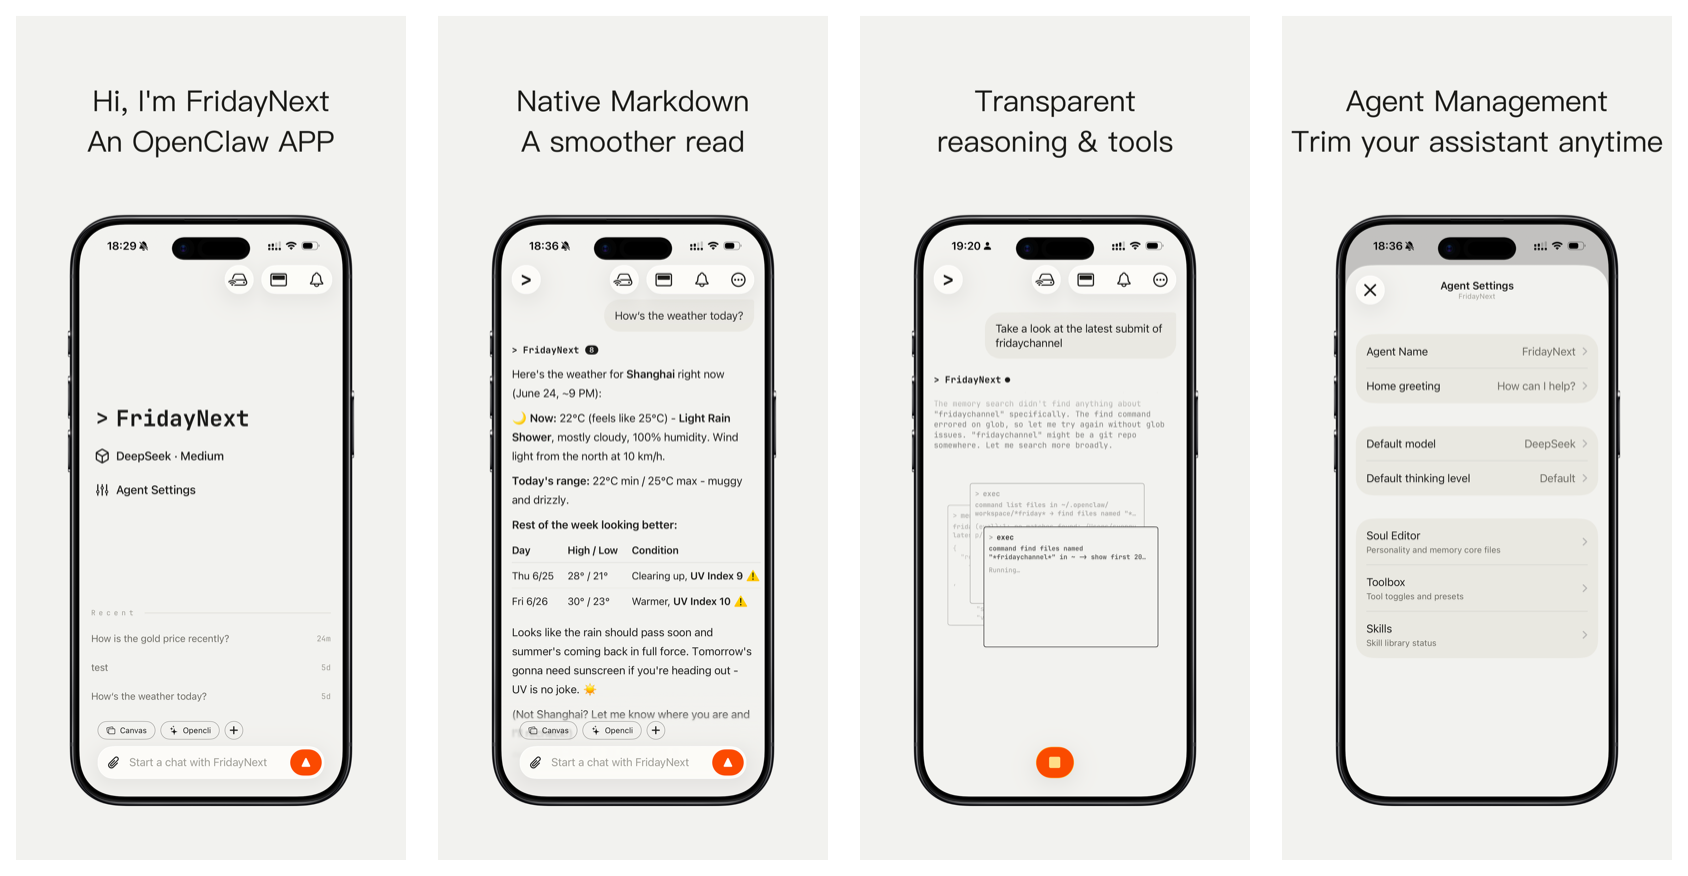
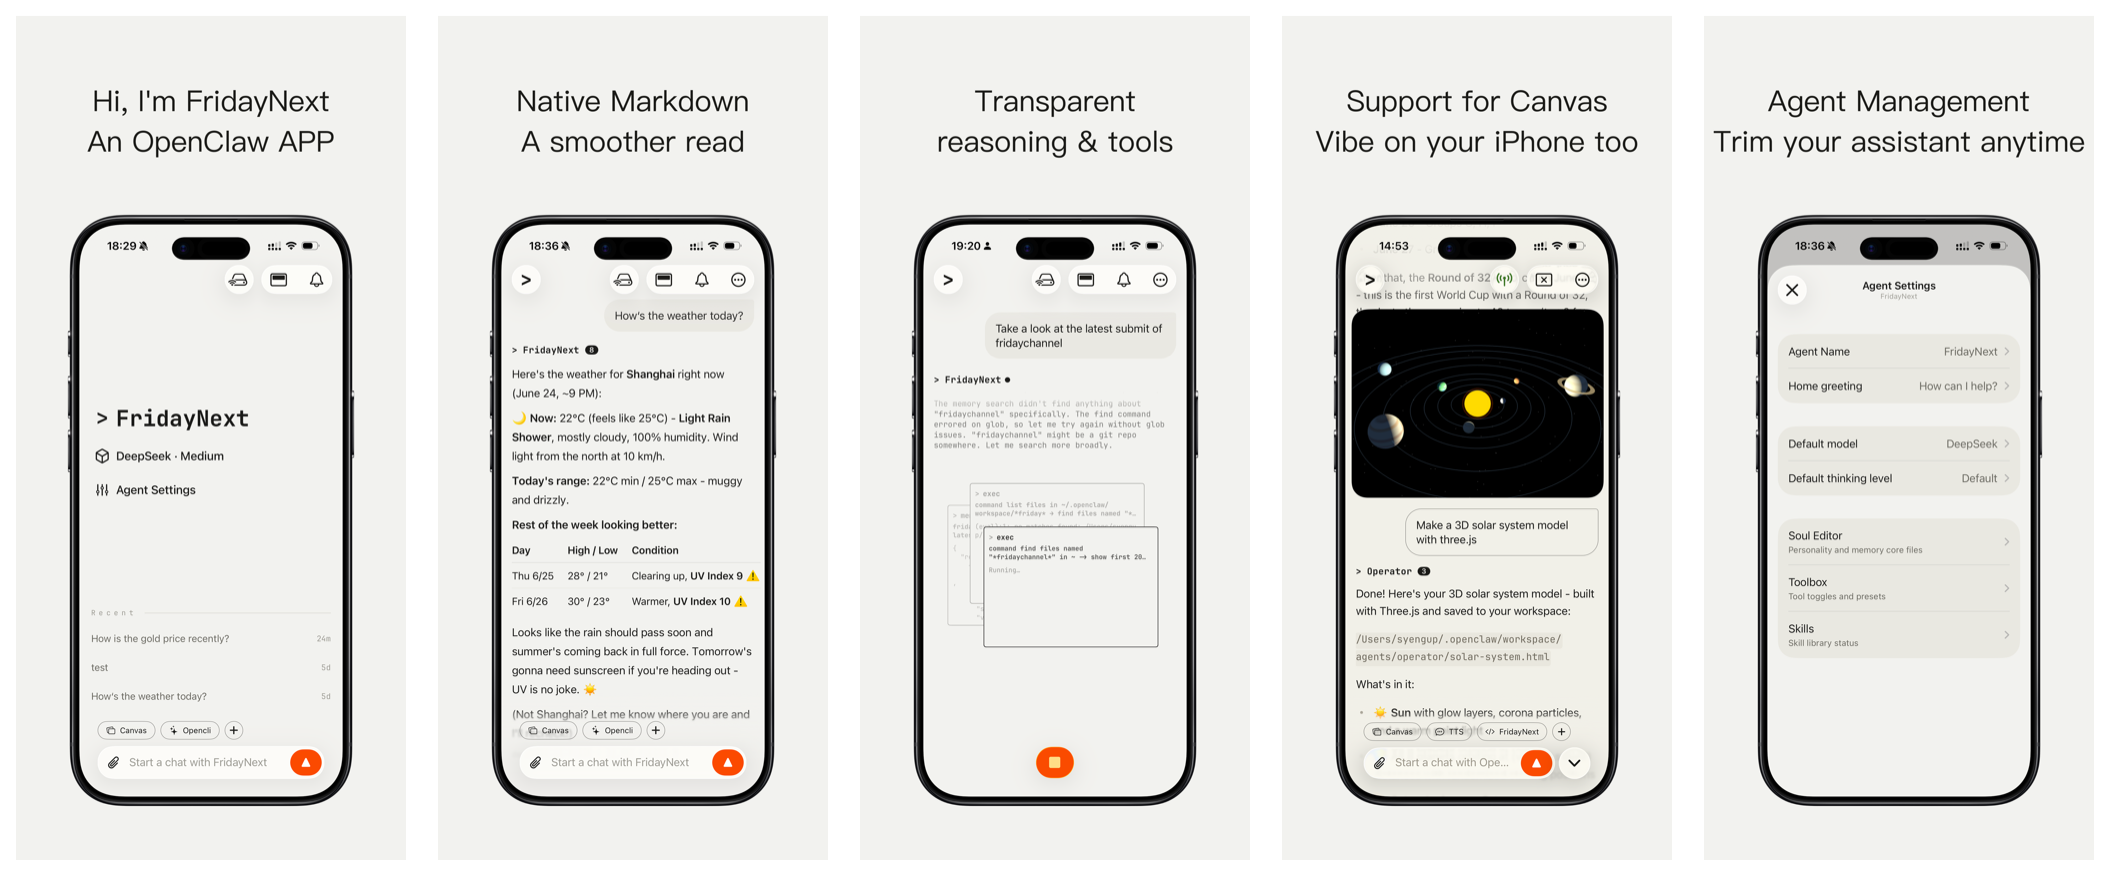
Add Canvas screenshot (Frame 17) to the glimpse strip

diff --git a/README.md b/README.md
@@ -33,7 +33,7 @@ there, and you can jump in at any moment.
 ## A glimpse inside
 
 <p align="center">
-  <img src="assets/screenshots/glimpse.png" width="844" alt="FridayNext screenshots — home, native markdown, transparent reasoning &amp; tools, and agent management">
+  <img src="assets/screenshots/glimpse.png" width="1055" alt="FridayNext screenshots — home, native markdown, transparent reasoning & tools, interactive canvas, and agent management">
 </p>
 
 <p align="center"><em>Your agents, your chats, your tools — all in one place.</em></p>
